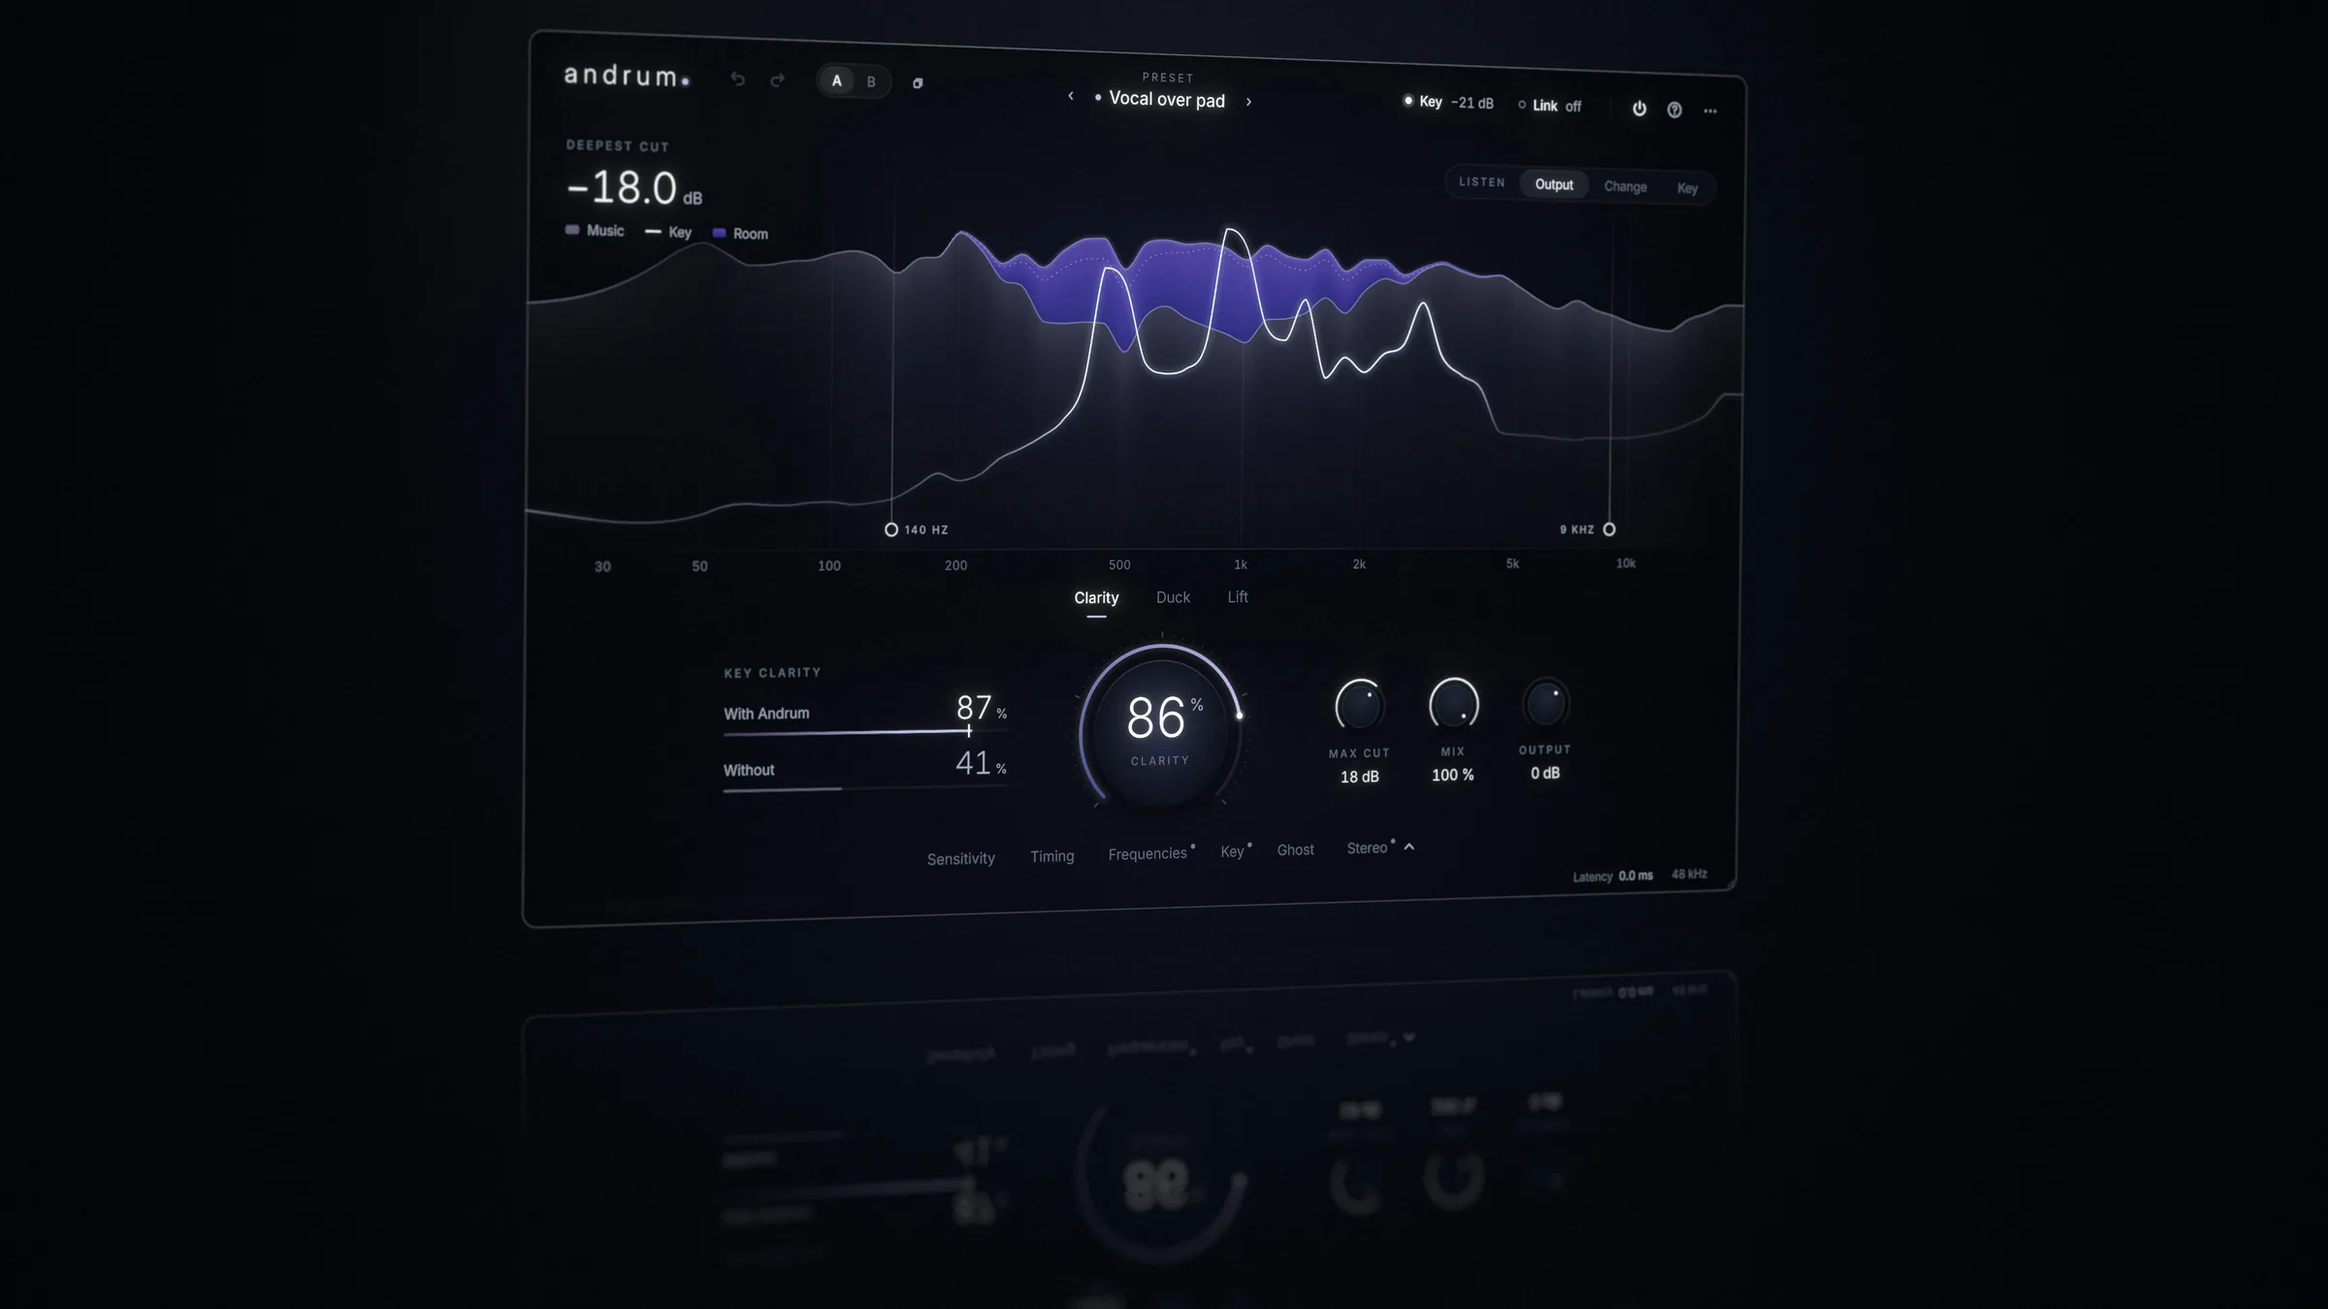
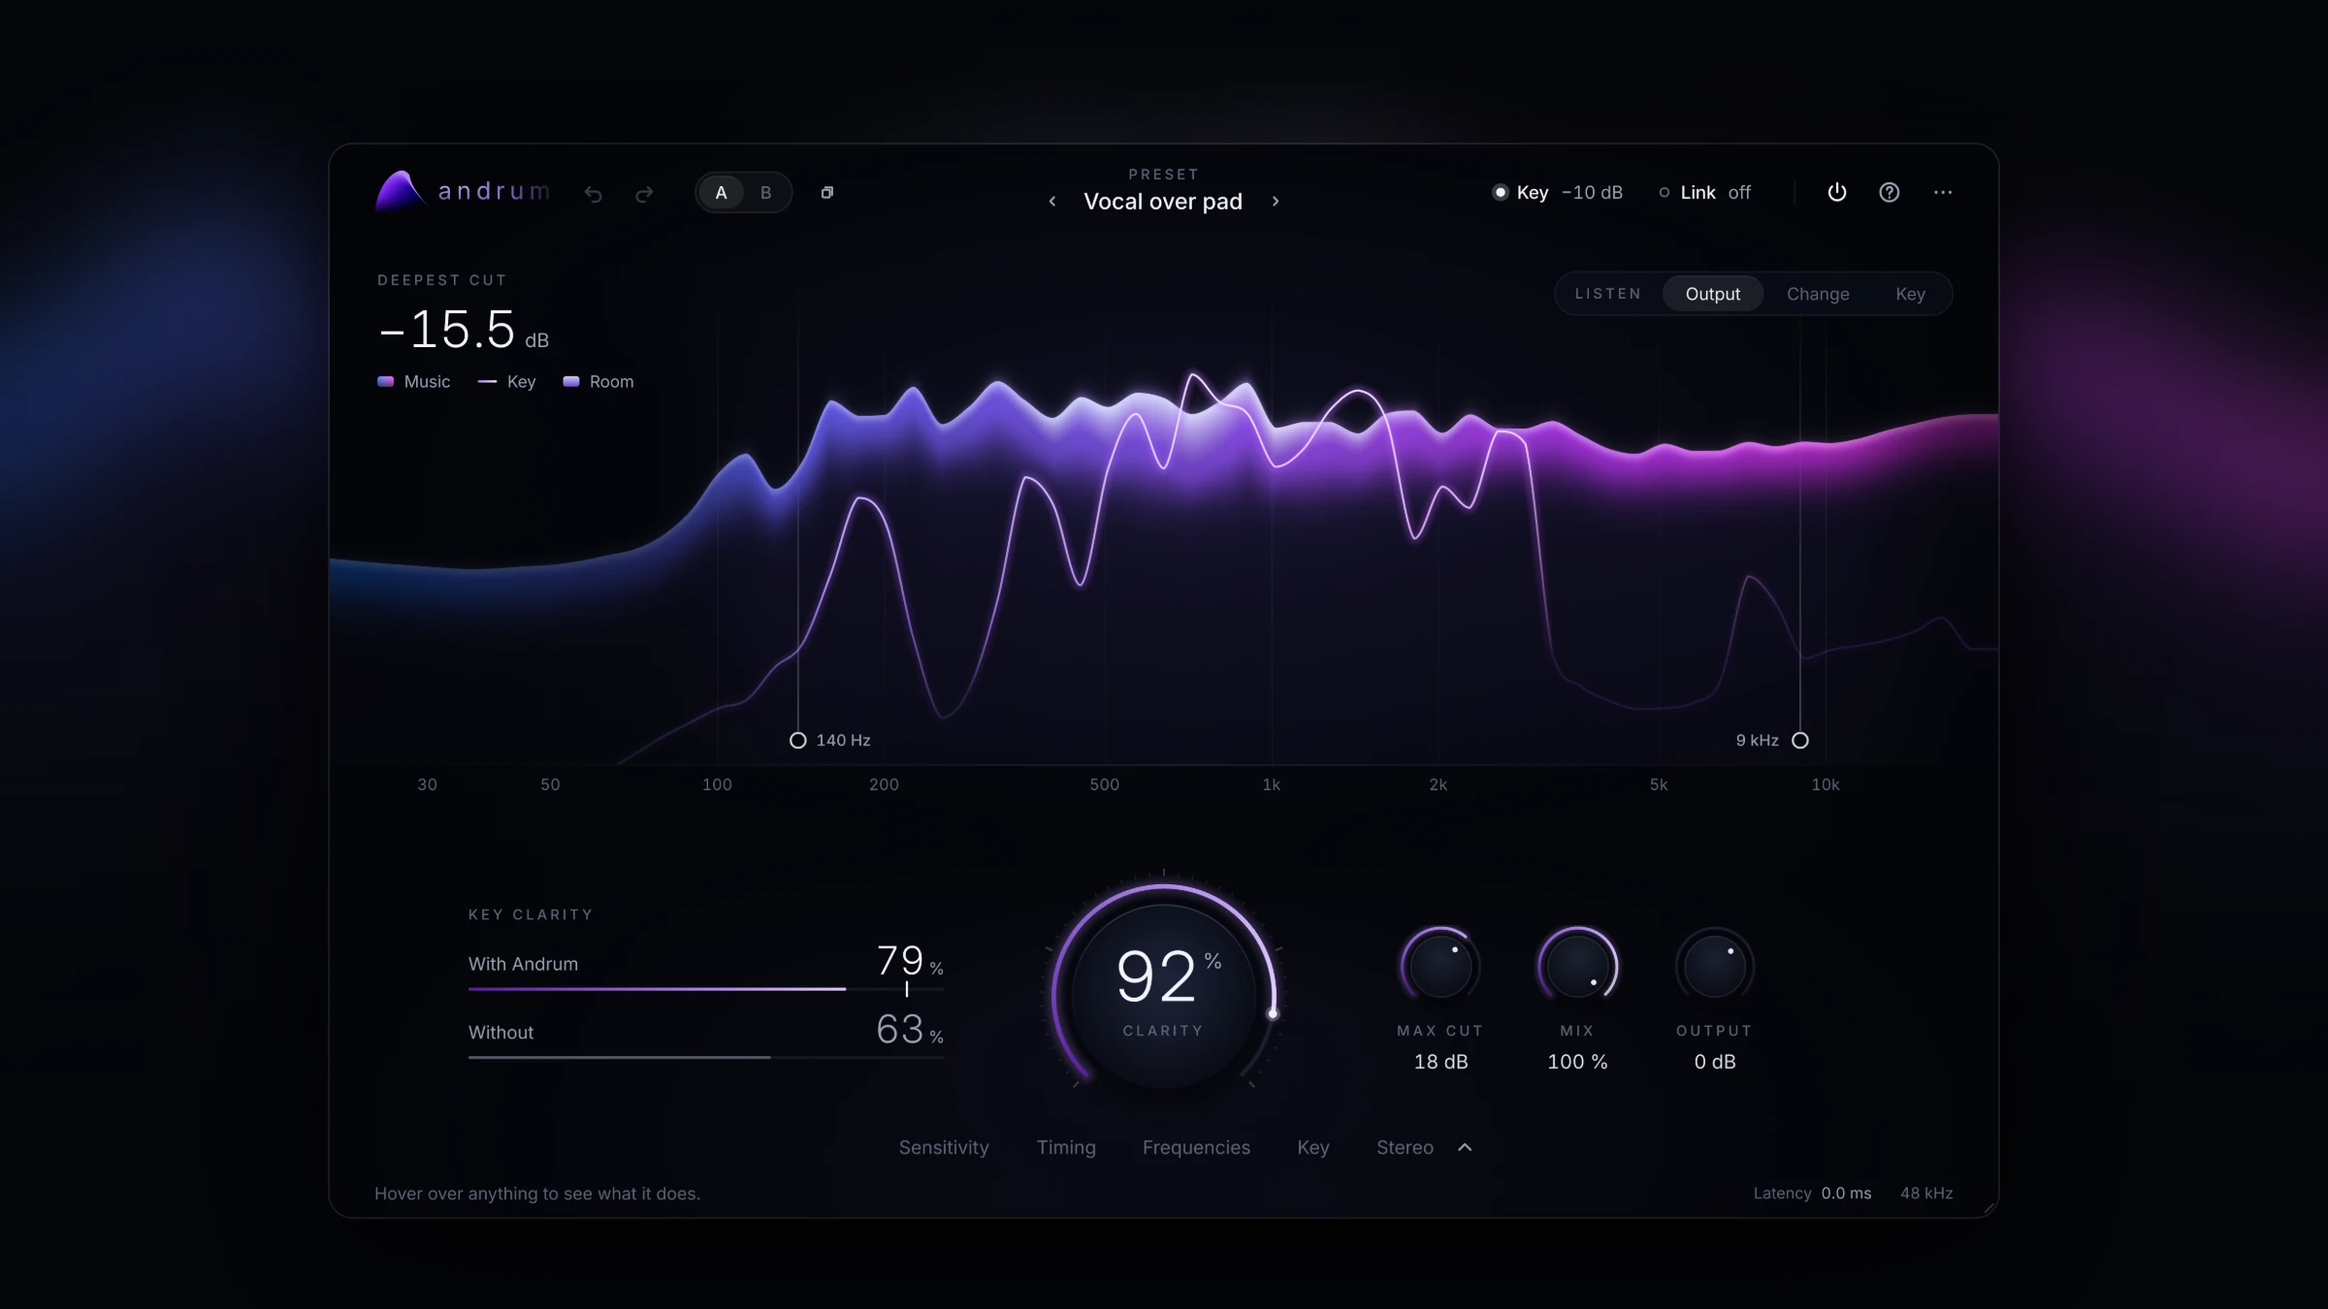
Andrum: how it compares, the measured details, a new front-page picture
- How it compares: one moment of a voice over a pad and guitars, drawn four
  ways in the page's own light, showing what a sidechain compressor, a dynamic
  EQ, a spectral ducker and Andrum each turn down (an illustration of how each
  kind of tool works, and labelled as one), then other tools and Andrum side by
  side: what you set, a voice that already comes through, esses and tails,
  video editors, what you see.
- Measured, not claimed: nine numbers from Andrum 1.8.1's own test suite
  (tests/dsp_tests.cpp, run on 1.8.1): 2.7 dB where a plain spectral carve
  cuts 11.7, 0.0 dB where the voice is already clear or out of reach, Clean
  Key, Auto sensitivity, latency, 61 bands, 0.64 dB precision, bit-exact
  transparency and the load. They replace the three-column how-it-works.
- The front page and Plugins page get a new Andrum picture: the 1.8.1 window,
  straight on, in the light of its own aurora.

Claude-Session: https://claude.ai/code/session_01PrqZpBrYxvVUTG3SE9TDNk

diff --git a/andrum/index.html b/andrum/index.html
@@ -132,24 +132,124 @@
     </div>
   </section>
 
-  <!-- ===================================================================== how -->
+  <!-- ===================================================================== how it compares -->
   <section class="section" id="how" aria-labelledby="how-title">
     <div class="wrap">
-      <h2 id="how-title">Only where it’s needed. Only while it’s needed.</h2>
-      <div class="three">
-        <div>
-          <h3>Where the music hides the voice</h3>
-          <p>Every five milliseconds, Andrum compares the voice with the music in 61 bands, a sixth of an octave apart. It works out how much of the voice the music masks, the way your ear does, and turns down only the bands where a cut brings the voice back.</p>
+      <div class="section__head">
+        <h2 id="how-title">Where other tools cut, and where Andrum does.</h2>
+        <p class="lede">Every tool here can turn the music down for a voice. Andrum first works out where the music hides it: every five milliseconds it compares the voice with the music in 61 bands, the way your ear does, and turns down only there.</p>
+      </div>
+
+      <div class="ways">
+        <figure class="way">
+          <img src="assets/img/compare-compressor-1160.webp" srcset="assets/img/compare-compressor-580.webp 580w, assets/img/compare-compressor-1160.webp 1160w" sizes="(max-width: 767px) calc(100vw - 2 * var(--gutter)), 584px" width="1160" height="500" loading="lazy" decoding="async" alt="A sidechain compressor: the whole spectrum is turned down, from the bass to the air.">
+          <figcaption><h3>Sidechain compressor</h3><p>Turns the whole track down whenever the voice is there, the bass and the air too.</p></figcaption>
+        </figure>
+        <figure class="way">
+          <img src="assets/img/compare-dynamic-eq-1160.webp" srcset="assets/img/compare-dynamic-eq-580.webp 580w, assets/img/compare-dynamic-eq-1160.webp 1160w" sizes="(max-width: 767px) calc(100vw - 2 * var(--gutter)), 584px" width="1160" height="500" loading="lazy" decoding="async" alt="A dynamic EQ: one region round 2.5 kHz is turned down, the one set by hand.">
+          <figcaption><h3>Dynamic EQ</h3><p>Turns down the bands you set by hand, whether or not that’s where the voice is hidden.</p></figcaption>
+        </figure>
+        <figure class="way">
+          <img src="assets/img/compare-ducker-1160.webp" srcset="assets/img/compare-ducker-580.webp 580w, assets/img/compare-ducker-1160.webp 1160w" sizes="(max-width: 767px) calc(100vw - 2 * var(--gutter)), 584px" width="1160" height="500" loading="lazy" decoding="async" alt="A spectral ducker: a deep hole round 1 kHz, where the voice is loudest and already stands well above the music.">
+          <figcaption><h3>Spectral ducker</h3><p>Cuts deepest where the voice is loudest, often right where it already comes through.</p></figcaption>
+        </figure>
+        <figure class="way way--andrum">
+          <img src="assets/img/compare-andrum-1160.webp" srcset="assets/img/compare-andrum-580.webp 580w, assets/img/compare-andrum-1160.webp 1160w" sizes="(max-width: 767px) calc(100vw - 2 * var(--gutter)), 584px" width="1160" height="500" loading="lazy" decoding="async" alt="Andrum: small cuts only under the voice's harmonics in the low mids and in the presence round 3 kHz, where the music hid the voice. Round 1 kHz, where the voice already comes through, and in the bass and the air, the music is untouched.">
+          <figcaption><h3>Andrum</h3><p>Turns down only the bands where the music hides the voice, and only as far as it takes.</p></figcaption>
+        </figure>
+      </div>
+      <p class="fine ways__note">One moment of a voice over a pad and guitars. The fine line is the voice; the faded light above the music is what each tool turns down. This shows how each kind of tool works, not a measurement of any one product.</p>
+
+      <div class="versus" role="table" aria-label="Other tools and Andrum">
+        <div class="versus__row versus__row--head" role="row">
+          <span role="columnheader"><span class="visually-hidden">Question</span></span>
+          <span role="columnheader">Other tools</span>
+          <span role="columnheader">Andrum</span>
         </div>
-        <div>
-          <h3>While the voice is there</h3>
-          <p>When the voice rests, the music glides back. Esses, breaths and reverb tails can be left out of what Andrum listens to, so the music doesn’t flutter.</p>
+        <div class="versus__row" role="row">
+          <span role="rowheader">What you set</span>
+          <span role="cell" data-label="Other tools">Thresholds, ratios, frequencies and depths, band by band</span>
+          <span role="cell" data-label="Andrum">How clear the voice should be</span>
         </div>
-        <div>
-          <h3>With nothing to wait for</h3>
-          <p>Andrum runs at zero latency, so there’s nothing for your DAW or editor to make up for. For a kick through a bass, up to 30 ms of lookahead lands the dip before the hit.</p>
+        <div class="versus__row" role="row">
+          <span role="rowheader">When the voice already comes through</span>
+          <span role="cell" data-label="Other tools">They cut anyway</span>
+          <span role="cell" data-label="Andrum">It leaves the music alone</span>
+        </div>
+        <div class="versus__row" role="row">
+          <span role="rowheader">Esses, breaths and reverb tails</span>
+          <span role="cell" data-label="Other tools">Set off a cut, so the music flutters</span>
+          <span role="cell" data-label="Andrum">Can be left out of what it listens to</span>
+        </div>
+        <div class="versus__row" role="row">
+          <span role="rowheader">In a video editor</span>
+          <span role="cell" data-label="Other tools">Need a sidechain the editor can’t send</span>
+          <span role="cell" data-label="Andrum">Two Andrums link up, with no routing</span>
+        </div>
+        <div class="versus__row" role="row">
+          <span role="rowheader">What you see</span>
+          <span role="cell" data-label="Other tools">How much is cut</span>
+          <span role="cell" data-label="Andrum">How much is cut, and how clear the voice is with it and without it</span>
         </div>
       </div>
+    </div>
+  </section>
+
+  <!-- ===================================================================== the details -->
+  <section class="section" id="details" aria-labelledby="details-title">
+    <div class="wrap">
+      <div class="section__head">
+        <h2 id="details-title">Measured, not claimed.</h2>
+        <p class="lede">Every number here comes from Andrum’s own test suite, run on 1.8.1, the version you download.</p>
+      </div>
+      <dl class="specs">
+        <div>
+          <dt>Only what it takes</dt>
+          <dd class="specs__v">2.7<small>dB</small></dd>
+          <dd>With the voice 6 dB over the music and the dial at 80 %, Andrum cuts 2.7 dB on average, and the voice is 90 % clear. Its engine run as a plain spectral ducker cuts 11.7 dB.</dd>
+        </div>
+        <div>
+          <dt>Left alone</dt>
+          <dd class="specs__v">0.0<small>dB</small></dd>
+          <dd>With the voice 12 dB over the music, it’s already 93 % clear, and Andrum cuts nothing. Where the music is 30 dB over the voice, out of reach, it cuts nothing either.</dd>
+        </div>
+        <div>
+          <dt>Clean Key</dt>
+          <dd class="specs__v">2.4<small>dB</small></dd>
+          <dd>What’s left of a 12 dB cut at 6.4 kHz while the singer says “s”. The vowels keep all 12, and a reverb tail keeps 0.8.</dd>
+        </div>
+        <div>
+          <dt>Auto sensitivity</dt>
+          <dd class="specs__v">12.0 / 12.0<small>dB</small></dd>
+          <dd>The same room for a voice at −12 and at −42 dBFS, with no threshold to set. A fixed threshold gives 12.0 and 2.8.</dd>
+        </div>
+        <div>
+          <dt>Latency</dt>
+          <dd class="specs__v">0<small>samples</small></dd>
+          <dd>Nothing for your DAW or editor to make up for. Up to 30 ms of lookahead when you want it, for a kick through a bass.</dd>
+        </div>
+        <div>
+          <dt>Resolution</dt>
+          <dd class="specs__v">61<small>bands</small></dd>
+          <dd>A sixth of an octave apart, from 20 Hz to 20.5 kHz, worked out again every 5 ms.</dd>
+        </div>
+        <div>
+          <dt>Precision</dt>
+          <dd class="specs__v">0.64<small>dB</small></dd>
+          <dd>The most a cut strays from the one Andrum means to make, anywhere in the spectrum, from 44.1 to 192 kHz.</dd>
+        </div>
+        <div>
+          <dt>Transparency</dt>
+          <dd class="specs__v">Bit-exact</dd>
+          <dd>With no voice to make room for, the music comes out exactly as it went in, with lookahead or without.</dd>
+        </div>
+        <div>
+          <dt>Load</dt>
+          <dd class="specs__v">5.5<small>%</small></dd>
+          <dd>Of one core on our test machine, at 48 kHz in stereo with everything on. When its inputs fall silent, Andrum rests.</dd>
+        </div>
+      </dl>
+      <p class="fine specs__note">In the tests the voice is a sung voice and the music is pink noise, with Max cut at 12 dB.</p>
     </div>
   </section>
 

diff --git a/andrum/assets/css/andrum.css b/andrum/assets/css/andrum.css
@@ -39,6 +39,7 @@ h1, h2, h3, p, figure, dl, dd, ul { margin: 0; }
 ul { padding: 0; list-style: none; }
 strong { font-weight: 500; color: var(--frost); }
 [hidden] { display: none !important; }
+.visually-hidden { position: absolute !important; width: 1px; height: 1px; overflow: hidden; clip: rect(0 0 0 0); white-space: nowrap; }
 
 .wrap { width: 100%; max-width: calc(var(--wrap) + 2 * var(--gutter)); margin: 0 auto;
         padding-left: max(var(--gutter), env(safe-area-inset-left, 0px)); padding-right: max(var(--gutter), env(safe-area-inset-right, 0px)); }
@@ -144,10 +145,43 @@ h3 { font: 500 18px/1.35 var(--text); color: var(--frost); letter-spacing: -0.00
 .split__text p { max-width: 29em; font-size: 18px; }
 @media (max-width: 1023px) { .split { grid-template-columns: 1fr; gap: 48px; } }
 
-.three { display: grid; grid-template-columns: repeat(3, minmax(0, 1fr)); gap: 48px; margin-top: 72px; }
-.three div { display: grid; gap: 12px; align-content: start; padding-top: 24px; border-top: 1px solid var(--line); }
-.three p { font-size: 16.5px; }
-@media (max-width: 1023px) { .three { grid-template-columns: 1fr; gap: 36px; margin-top: 56px; } }
+/* how it compares: the same moment, four ways of turning the music down */
+.ways { display: grid; grid-template-columns: repeat(2, minmax(0, 1fr)); gap: 48px 32px; margin-top: 72px; }
+.way img { width: 100%; height: auto; border-radius: 14px; box-shadow: 0 0 0 1px var(--line); }
+.way--andrum img { box-shadow: 0 0 0 1px rgba(180, 136, 247, 0.45); }
+.way figcaption { display: grid; gap: 6px; margin-top: 18px; }
+.way figcaption p { font-size: 16.5px; max-width: 30em; }
+.ways__note { margin-top: 32px; max-width: 52em; }
+@media (max-width: 767px) { .ways { grid-template-columns: 1fr; gap: 40px; margin-top: 56px; } .way img { border-radius: 10px; } }
+
+.versus { margin-top: 88px; border-bottom: 1px solid var(--line); }
+.versus__row { display: grid; grid-template-columns: minmax(0, 3.4fr) minmax(0, 4fr) minmax(0, 4fr); gap: 32px; padding: 20px 0;
+               border-top: 1px solid var(--line); font-size: 16.5px; line-height: 1.5; }
+.versus__row [role="rowheader"] { color: var(--frost); font-weight: 500; font-size: 16px; }
+.versus__row [role="cell"] { color: var(--mist); }
+.versus__row [role="cell"]:last-child { color: var(--frost); }
+.versus__row--head { padding: 0 0 14px; border-top: 0; font-size: 14px; }
+.versus__row--head [role="columnheader"] { color: var(--faint); }
+.versus__row--head [role="columnheader"]:last-child { color: var(--lavender); }
+@media (max-width: 767px) {
+  .versus { margin-top: 64px; }
+  .versus__row { grid-template-columns: 1fr; gap: 6px; padding: 20px 0; }
+  .versus__row--head { display: none; }
+  .versus__row [role="rowheader"] { margin-bottom: 4px; }
+  .versus__row [role="cell"]::before { content: attr(data-label) ": "; color: var(--faint); }
+  .versus__row [role="cell"]:last-child::before { color: var(--lavender); }
+}
+
+/* the details: what the test suite measures */
+.specs { display: grid; grid-template-columns: repeat(3, minmax(0, 1fr)); gap: 0 40px; margin-top: 72px; }
+.specs div { display: grid; grid-template-rows: auto auto 1fr; gap: 10px; align-content: start; padding: 28px 0 44px; border-top: 1px solid var(--line); }
+.specs dt { font-size: 14px; color: var(--faint); }
+.specs dd { font-size: 15.5px; line-height: 1.55; max-width: 24em; }
+.specs .specs__v { font: 300 clamp(40px, 3.8vw, 52px)/1 var(--display); color: var(--frost); letter-spacing: -0.03em; margin-bottom: 6px; }
+.specs__v small { font: 400 15px/1 var(--text); color: var(--mist); margin-left: 6px; letter-spacing: 0; }
+.specs__note { margin-top: 8px; }
+@media (max-width: 1023px) { .specs { grid-template-columns: repeat(2, minmax(0, 1fr)); margin-top: 56px; } }
+@media (max-width: 639px) { .specs { grid-template-columns: 1fr; } .specs div { padding-bottom: 32px; } }
 
 .uses { display: grid; grid-template-columns: minmax(0, 5fr) minmax(0, 7fr); gap: 48px 72px; align-items: center; margin-top: 72px; }
 .uses__text { display: grid; gap: 44px; }

diff --git a/plugins/index.html b/plugins/index.html
@@ -45,7 +45,7 @@
 
     <div class="project-grid">
       <a class="project" href="../andrum/">
-        <div class="image-frame landscape"><img src="../img/work/andrum.webp" width="2400" height="1350" alt="Andrum's dark audio interface, with violet frequency curves and a central clarity dial." fetchpriority="high" decoding="async"></div>
+        <div class="image-frame landscape"><img src="../img/work/andrum.webp" width="2400" height="1350" alt="Andrum's window: the music lit like an aurora from blue to pink, the voice as a fine line of light through it, and the Clarity dial at 92 %." fetchpriority="high" decoding="async"></div>
         <div class="caption">
           <div class="project-name"><h3>Andrum</h3></div>
           <p>Space for sound.</p>

diff --git a/index.html b/index.html
@@ -62,7 +62,7 @@
 
     <div class="project-grid">
       <a class="project" href="andrum/">
-        <div class="image-frame landscape"><img src="img/work/andrum.webp" width="2400" height="1350" alt="Andrum's dark audio interface, with violet frequency curves and a central clarity dial." loading="lazy" decoding="async"></div>
+        <div class="image-frame landscape"><img src="img/work/andrum.webp" width="2400" height="1350" alt="Andrum's window: the music lit like an aurora from blue to pink, the voice as a fine line of light through it, and the Clarity dial at 92 %." loading="lazy" decoding="async"></div>
         <div class="caption">
           <div class="project-name"><h3>Andrum</h3></div>
           <p>Space for sound.</p>
